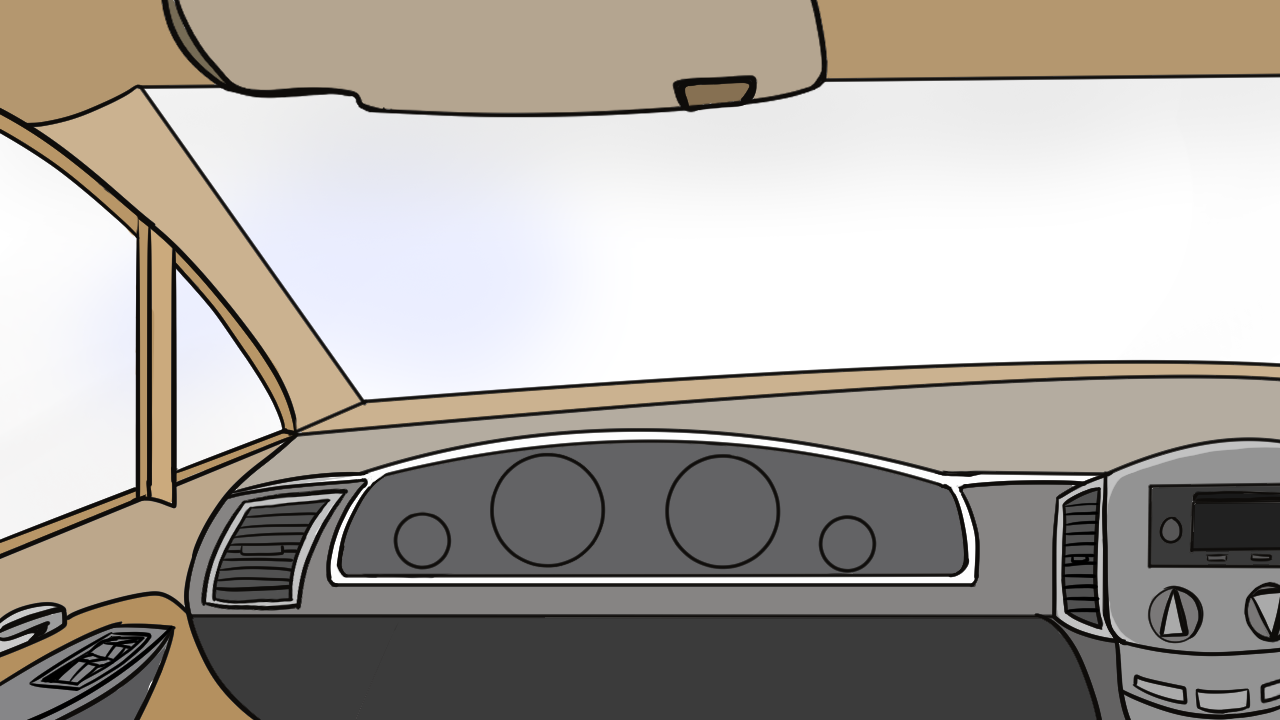
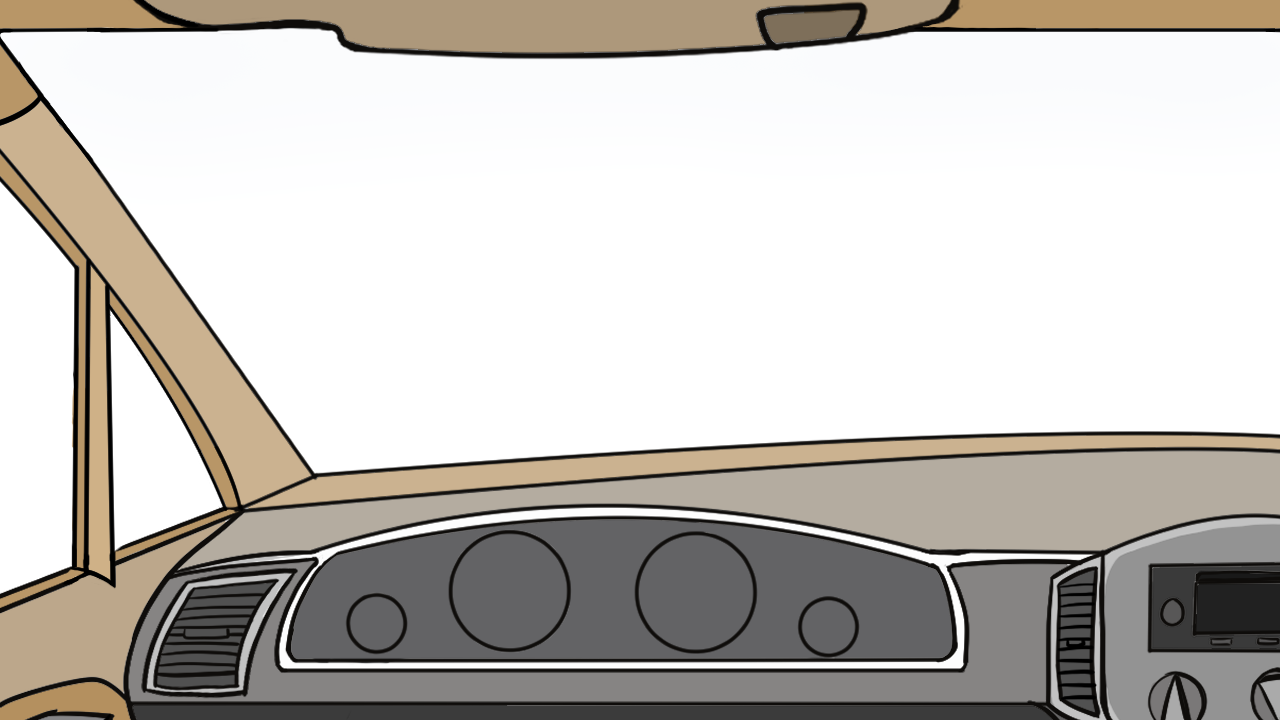
Changement image habitacle

diff --git a/serialcontroller.cpp b/serialcontroller.cpp
@@ -178,7 +178,11 @@ void SerialController::parsePacket(const QByteArray& packet) {
         }
         break;
     case PacketType::BUTTONS:
-        // TODO that shit
+        if (jsonObj.contains("g") && jsonObj.contains("b") && jsonObj.contains("c")) {
+            m_isAccelerationBtnPressed = jsonObj["g"].toBool();
+            m_isBrakeBtnPressed = jsonObj["b"].toBool();
+            m_isClutchBtnPressed = jsonObj["c"].toBool();
+        }
         break;
     case PacketType::PEDALES:
         if (jsonObj.contains("g") && jsonObj.contains("b") && jsonObj.contains("c")) {
